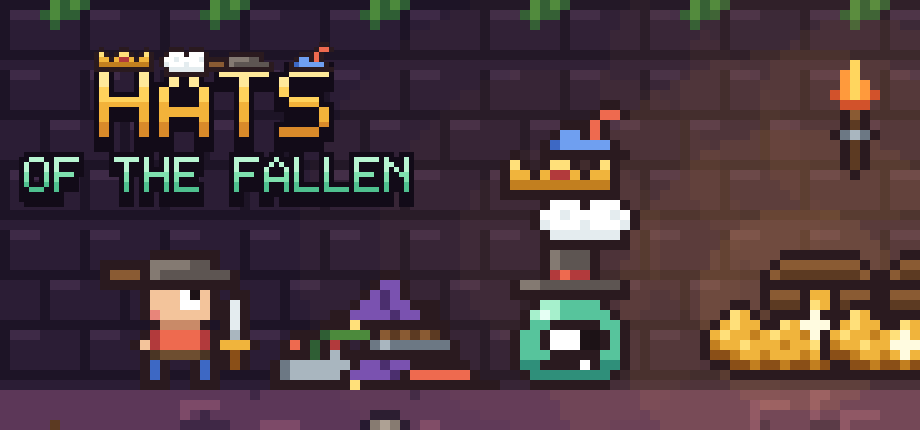
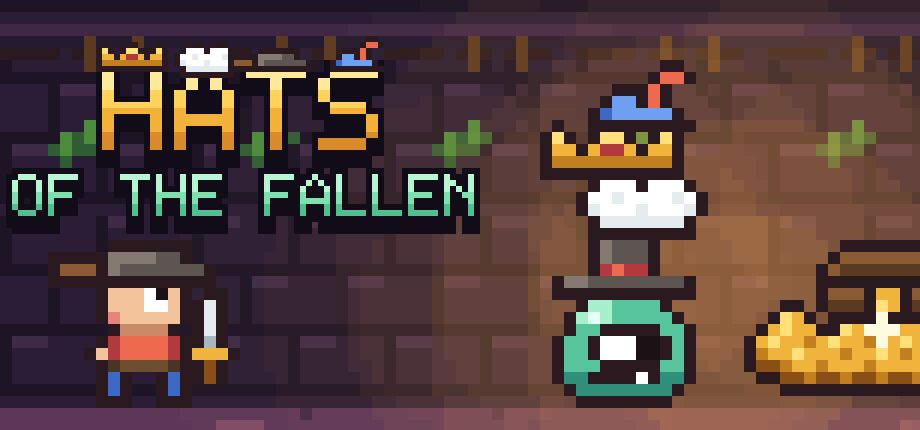
Mila: header v3 close-up, vergelijking met de vier toppers
Claude-Session: https://claude.ai/code/session_01RMWUyfvRPtBE1aTV8X21fL

diff --git a/ontwerp/steam/winkelpagina/bron/maak_capsules.py b/ontwerp/steam/winkelpagina/bron/maak_capsules.py
@@ -154,26 +154,25 @@ def scene(W, H, grond_y, kamer, items):
 
 def schaal(im, s): return im.resize((im.width * s, im.height * s), Image.NEAREST)
 
-# ---------- header 920 x 430 v2: scene op schaal 10 (92 x 43 spelpixels), logo erop op schaal 6 ----------
+# ---------- header 920 x 430 v3: close-up op schaal 12 (77 x 36 spelpixels), groot logo op schaal 6 ----------
+# v2 verloor naast de toppers (Rusty, Ropuka, Tiny Pasture, Deskrawl): logo en figuren te klein, te donker.
 def header():
-    W, H, S = 92, 43, 10
-    vloer = 39
+    W, H, S = 77, 36, 12
+    vloer = 34
     im = Image.new("RGBA", (W, H), (0x1d, 0x14, 0x26, 255))
-    for kx in range(W // 16 + 1):                       # achterwand van de schatkamer (gang-tegels, open)
+    for kx in range(W // 16 + 1):
         for ry in range(3):
-            im.alpha_composite(cel(TEG, 1 if ry == 0 else 0, rij=1), (kx * 16, vloer - 48 + ry * 16))
+            im.alpha_composite(cel(TEG, 1 if ry == 1 else 0, rij=1), (kx * 16, vloer - 16 * (ry + 1)))
         im.alpha_composite(cel(TEG, (kx * 3) % 8, rij=0), (kx * 16, vloer))
-    im = gloed(im, 80, vloer - 8, .9); im = gloed(im, 56, vloer - 14, .35); im = gloed(im, 86, 12, .5)
-    im.alpha_composite(cel(FAKKEL, 2, 8, 12), (82, 6))
-    im.alpha_composite(cel(SCHAT, 1, 24, 16), (70, vloer - 16))
-    im.alpha_composite(cel(SCHAT, 3, 24, 16), (82, vloer - 16))
-    berg(im, 56, vloer, [0, 1, 3, 2, 6, 1])                     # maat 2: 6 hoeden
-    gloop_met_toren(im, 57, vloer, [7, 5, 4, 9])                # hoge hoed, koksmuts, kroon, veermuts
-    held(im, 10, vloer, 0, 8, wapen=0)                         # nieuwe held met een pan op, kijkt naar Gloop
+    for gx_, gy_, st in ((62, vloer - 6, 1.0), (54, vloer - 12, .7), (70, vloer - 18, .6), (40, vloer - 8, .35)):
+        im = gloed(im, gx_, gy_, st)
+    im.alpha_composite(cel(SCHAT, 1, 24, 16), (62, vloer - 16))
+    gloop_met_toren(im, 52, vloer, [7, 5, 4, 9])
+    held(im, 4, vloer, 0, 8, wapen=0)
     im = schaal(im, S)
-    lg = schaal(logo(2), 5)
-    im.alpha_composite(lg, (14, 12))
-    return im
+    lg = schaal(logo(2), 6)
+    im.alpha_composite(lg, (0, 0))
+    return im.crop((0, 0, 920, 430))
 
 # ---------- klein 462 x 174 (schaal 4: 116 x 44, rand weg) ----------
 def klein():

diff --git a/ontwerp/steam/winkelpagina/plan.md b/ontwerp/steam/winkelpagina/plan.md
@@ -35,7 +35,7 @@ Bron: `partner.steamgames.com/doc/store/assets/standard`, `.../libraryassets`, `
 ## 4. Stand per bestand
 | Bestand | Stand | Wat nog |
 |---|---|---|
-| `header-920x430.png` | v2 | v1 (scene op schaal 6) afgewezen: Gloop en toren te klein, berg leek puin. v2: scene op schaal 10, **Gloop met 4 hoeden is het middelpunt**, een nieuwe held met een pan kijkt naar hem, schat met gloed rechts, logo links boven. Verkleind naar 292 breed lezen logo en toren nog (GEZIEN). Nog: de achterwand bovenaan (mos-rij) is half afgesneden; de hoedenberg links van Gloop mag netter. |
+| `header-920x430.png` | v3 | v2 verloor naast de toppers (`vergelijk-header-toppers.png`, op 292 breed zoals de winkellijst): logo en figuren te klein, donker vlak. v3: close-up op schaal 12, Gloop met vier hoeden als hoofdfiguur, held met pan links onder het logo, schat met gloed rechts, logo groter. **Eerlijk oordeel: herkenbaar en de grap leest, maar nog minder rijk dan Rusty, Tiny Pasture en Deskrawl** (die zijn geschilderd, met een dik eigen logo). v4: Gloop en de hoeden opnieuw tekenen op 3x de spelmaat (zelfde figuur, meer detail, licht van de schat op zijn huid) en een dikker logo met een gouden rand en reliëf. |
 | `klein-462x174.png` | v1 | op 120 x 45 en 184 x 69 lezen HATS, de kroon en OF THE FALLEN (GEZIEN); Gloop met toren rechts is klein maar herkenbaar. |
 | `main-1232x706.png` | v1 | sterrenlucht, gras, logo, daaronder de schatkamer met held, hoedenberg, Gloop met 4 hoeden en schat. Logo valt half over het gras, leest goed door de rand (GEZIEN). |
 | `staand-748x896.png` | v1 | logo groot in de lucht, schatkamer onderaan. Eerste versie met lege bakstenen wand afgewezen (leeg midden). |
